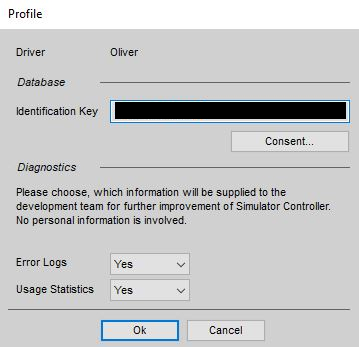
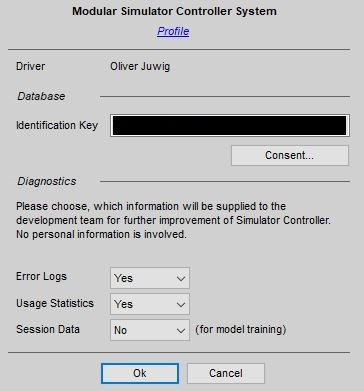
Documentation Update

diff --git a/Docs/Using Simulator Controller.md b/Docs/Using Simulator Controller.md
@@ -16,7 +16,7 @@ If you don't want to use the launch window and want "Simulator Startup" to run t
 
 ## Managing your *privacy*
 
-Simulator Controller can provide diagnostics data to the development team to increase the stability and also the functionality in future releases. Additionally, you can share data from your sessions (for example, reference telemetry data, tyre pressure information for different weather conditions, and so on) with the community for which you will receive similar data in return. See [here](https://github.com/SeriousOldMan/Simulator-Controller/wiki/Session-Database#sharing-data-with-the-community) for more information. But sharing data and diagnostics information is voluntary. You can use the profile dialog in "Simulator Setup" to make your choices.
+Simulator Controller can provide diagnostics data to the development team to increase the stability and also the functionality in future releases. Additionally you can share anonymous data from your session for training purposes of GPT models of the Assistants AI. And you can share some data from your sessions (for example, reference telemetry data, tyre pressure information for different weather conditions, and so on) with the community for which you will receive similar data in return. Of course, also fully anonymous. See [here](https://github.com/SeriousOldMan/Simulator-Controller/wiki/Session-Database#sharing-data-with-the-community) for more information. But sharing data and diagnostics information is voluntary. You can use the profile dialog in "Simulator Setup" to make your choices.
 
 ![](https://github.com/SeriousOldMan/Simulator-Controller/blob/main/Docs/Images/Profile.JPG)
 
